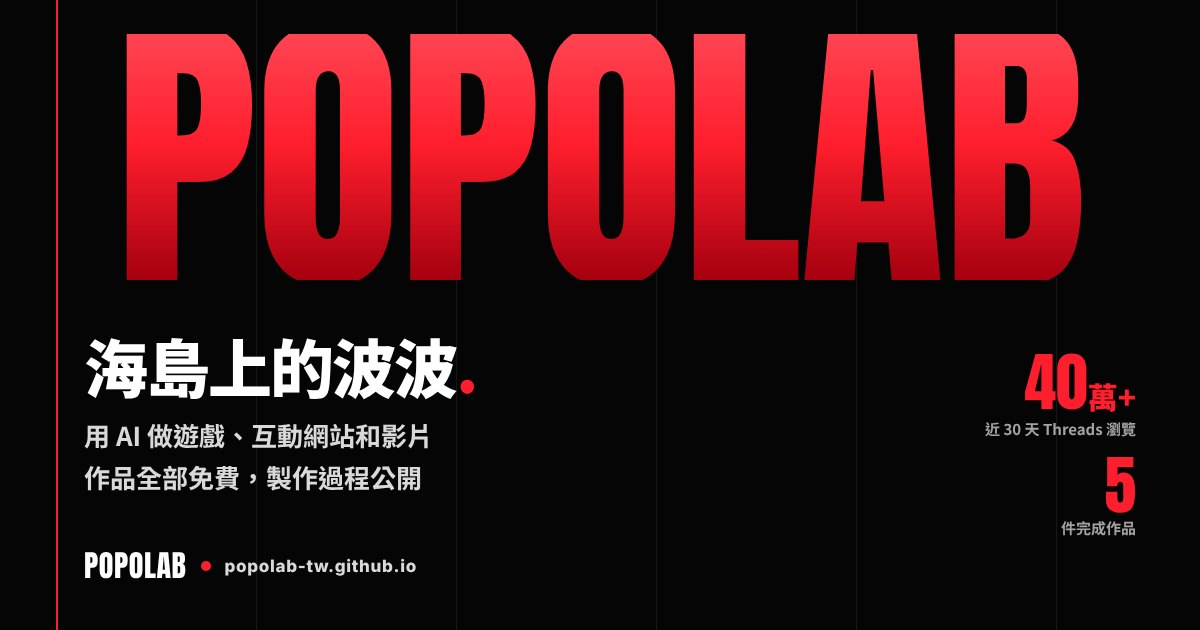
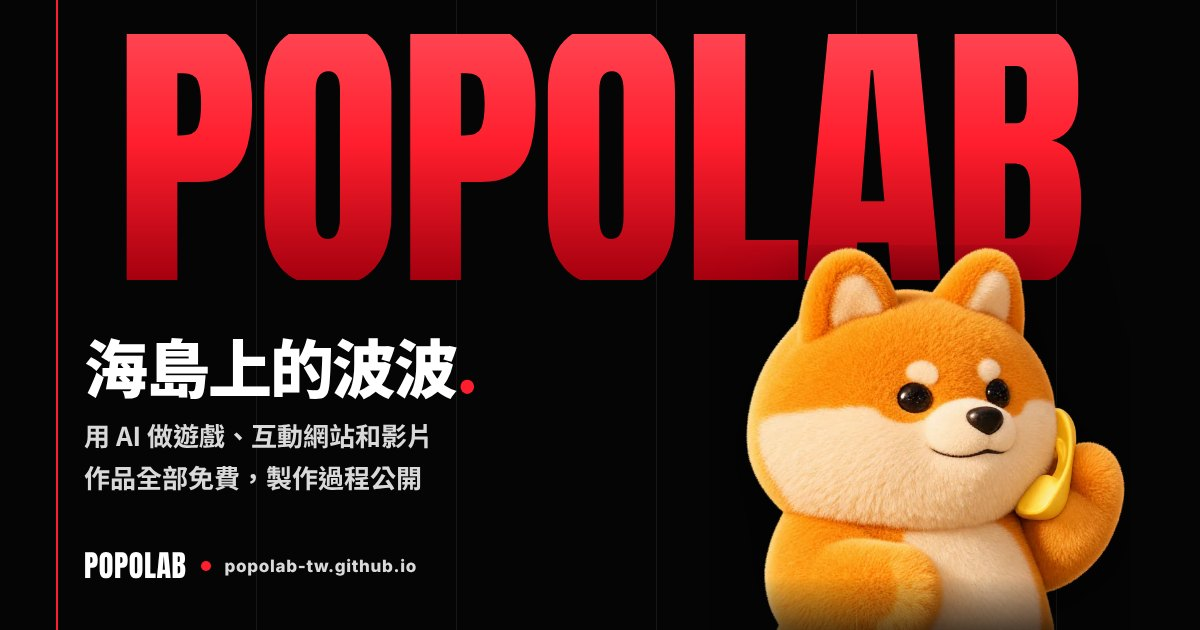
Hero 加入柴犬主視覺，網站圖示改用柴犬
Claude-Session: https://claude.ai/code/session_01XDwZgF5nHccd137tL3YrZp

Changed region(s): [[0.6167, 0.3921, 0.9558, 1.0]]

diff --git a/assets/css/site.css b/assets/css/site.css
@@ -103,7 +103,9 @@ ul,ol{margin:0;padding:0;list-style:none}
 .hero-role{margin-top:16px;font:900 clamp(15px,1.2vw,18px)/1.45 var(--zh);color:var(--red);letter-spacing:.02em}
 .hero-desc{margin-top:14px;font:500 15px/1.85 var(--zh);color:var(--ink-2);max-width:25em}
 .hero-cta{display:flex;flex-wrap:wrap;align-items:center;gap:14px 22px;margin-top:24px}
-.hero-mid{grid-column:2;grid-row:2;position:relative;z-index:2;align-self:start;margin-top:clamp(24px,3vw,48px)}
+.hero-visual{grid-column:2;grid-row:1/3;align-self:end;justify-self:center;position:relative;z-index:1;width:min(37vw,560px);margin-bottom:-2px;pointer-events:none}
+.hero-visual::before{content:"";position:absolute;left:8%;right:8%;top:18%;bottom:0;background:radial-gradient(closest-side,rgba(255,30,45,.38),rgba(255,30,45,0));filter:blur(30px);z-index:-1}
+.hero-visual img{width:100%;height:auto;-webkit-mask-image:linear-gradient(to bottom,#000 74%,transparent 99%);mask-image:linear-gradient(to bottom,#000 74%,transparent 99%);filter:drop-shadow(0 24px 40px rgba(0,0,0,.55))}
 .hero-right{grid-column:3;grid-row:2;position:relative;z-index:2;justify-self:end;width:min(100%,290px);margin-top:clamp(24px,3vw,48px)}
 .tagline{display:flex;gap:14px;align-items:center;font:700 14px/1.5 var(--zh);margin-bottom:22px}
 .ast{width:38px;height:38px;flex:none;border-radius:50%;border:1.5px solid var(--red);display:grid;place-items:center}
@@ -385,7 +387,9 @@ ul,ol{margin:0;padding:0;list-style:none}
   .hero{grid-template-columns:minmax(0,1fr) minmax(0,1fr)}
   .hero-left{grid-column:1;grid-row:2}
   .hero-right{grid-column:2;grid-row:2}
-  .hero-mid{grid-column:1/-1;grid-row:3;max-width:640px;margin:44px auto 0}
+  .hero-visual{grid-column:1/-1;grid-row:2;width:min(58vw,480px);margin-top:-13vw}
+  .hero-left{grid-row:3;margin-top:8px}
+  .hero-right{grid-row:3}
   .hero-strip{grid-row:4}
   .work-grid{grid-template-columns:repeat(2,minmax(0,1fr))}
   .craft{grid-template-columns:1fr 1fr}
@@ -402,13 +406,13 @@ ul,ol{margin:0;padding:0;list-style:none}
   .guides span:nth-child(3){border-right:1px solid var(--line)}
   .hero{grid-template-columns:minmax(0,1fr);padding-top:14px}
   .mega{font-size:27.8vw;margin-top:4px}
-  .hero-left{grid-column:1;grid-row:2;margin-top:-5vw}
+  .hero-visual{grid-column:1;grid-row:2;width:70vw;margin-top:-10vw}
+  .hero-left{grid-column:1;grid-row:3;margin-top:-10vw}
   .hero-name{white-space:normal}
-  .hero-right{grid-column:1;grid-row:3;justify-self:stretch;width:100%;margin-top:36px}
+  .hero-right{grid-column:1;grid-row:4;justify-self:stretch;width:100%;margin-top:36px}
   .stats{display:grid;grid-template-columns:repeat(3,minmax(0,1fr));gap:12px}
   .stat{grid-template-columns:1fr;gap:6px;padding:12px 0 0}
   .stat .n{font-size:clamp(30px,9vw,40px)}
-  .hero-mid{grid-row:4;margin:40px 0 0;max-width:none}
   .hero-strip{grid-row:5;flex-wrap:wrap}
   .hero-strip .mid{display:none}
   .tilt-card{transform:none}

diff --git a/index.html b/index.html
@@ -16,7 +16,7 @@
 <meta property="og:image:width" content="1200">
 <meta property="og:image:height" content="630">
 <meta name="twitter:card" content="summary_large_image">
-<link rel="icon" href="/favicon.svg" type="image/svg+xml">
+<link rel="icon" href="/favicon.png" type="image/png">
 <link rel="apple-touch-icon" href="/apple-touch-icon.png">
 <link rel="preconnect" href="https://fonts.googleapis.com">
 <link rel="preconnect" href="https://fonts.gstatic.com" crossorigin>
@@ -62,13 +62,8 @@
       </div>
     </div>
 
-    <div class="hero-mid" data-build>
-      <a class="tilt-card" href="/works/next-gen/#watch" aria-label="觀看最新作品 NEXT GEN MV">
-        <div class="tc-top"><span class="label"><b>NEW</b> / 最新作品</span><span class="label">MV ・ 3:38</span></div>
-        <img src="/assets/works/next-gen/mv-poster.webp" alt="NEXT GEN MV 畫面：發光的 3D 台灣地圖" width="1600" height="900" fetchpriority="high">
-        <span class="tc-title">NEXT GEN<br><span class="r">MV</span></span>
-        <span class="tc-play" aria-hidden="true"><svg viewBox="0 0 10 12"><path d="M0 0l10 6-10 6z"/></svg></span>
-      </a>
+    <div class="hero-visual" data-build>
+      <img src="/assets/img/shiba-1200.webp" srcset="/assets/img/shiba-640.webp 640w, /assets/img/shiba-1200.webp 1200w" sizes="(max-width:820px) 84vw, (max-width:1100px) 58vw, 40vw" alt="海島上的波波的柴犬吉祥物，正在講電話" width="1200" height="1188" fetchpriority="high">
     </div>
 
     <div class="hero-right">

diff --git a/404.html b/404.html
@@ -6,7 +6,7 @@
 <title>找不到這一頁｜海島上的波波</title>
 <meta name="robots" content="noindex">
 <meta name="theme-color" content="#050505">
-<link rel="icon" href="/favicon.svg" type="image/svg+xml">
+<link rel="icon" href="/favicon.png" type="image/png">
 <link rel="preconnect" href="https://fonts.googleapis.com">
 <link rel="preconnect" href="https://fonts.gstatic.com" crossorigin>
 <link rel="stylesheet" href="https://fonts.googleapis.com/css2?family=Anton&family=Inter:wght@700;800&family=Noto+Sans+TC:wght@500;700;900&display=swap">

diff --git a/works/feed/index.html b/works/feed/index.html
@@ -16,7 +16,7 @@
 <meta property="og:image:width" content="1200">
 <meta property="og:image:height" content="630">
 <meta name="twitter:card" content="summary_large_image">
-<link rel="icon" href="/favicon.svg" type="image/svg+xml">
+<link rel="icon" href="/favicon.png" type="image/png">
 <link rel="apple-touch-icon" href="/apple-touch-icon.png">
 <link rel="preconnect" href="https://fonts.googleapis.com">
 <link rel="preconnect" href="https://fonts.gstatic.com" crossorigin>

diff --git a/works/fertility-test/index.html b/works/fertility-test/index.html
@@ -16,7 +16,7 @@
 <meta property="og:image:width" content="1200">
 <meta property="og:image:height" content="630">
 <meta name="twitter:card" content="summary_large_image">
-<link rel="icon" href="/favicon.svg" type="image/svg+xml">
+<link rel="icon" href="/favicon.png" type="image/png">
 <link rel="apple-touch-icon" href="/apple-touch-icon.png">
 <link rel="preconnect" href="https://fonts.googleapis.com">
 <link rel="preconnect" href="https://fonts.gstatic.com" crossorigin>

diff --git a/works/flying-car/index.html b/works/flying-car/index.html
@@ -16,7 +16,7 @@
 <meta property="og:image:width" content="1200">
 <meta property="og:image:height" content="630">
 <meta name="twitter:card" content="summary_large_image">
-<link rel="icon" href="/favicon.svg" type="image/svg+xml">
+<link rel="icon" href="/favicon.png" type="image/png">
 <link rel="apple-touch-icon" href="/apple-touch-icon.png">
 <link rel="preconnect" href="https://fonts.googleapis.com">
 <link rel="preconnect" href="https://fonts.gstatic.com" crossorigin>

diff --git a/works/next-gen/index.html b/works/next-gen/index.html
@@ -16,7 +16,7 @@
 <meta property="og:image:width" content="1200">
 <meta property="og:image:height" content="630">
 <meta name="twitter:card" content="summary_large_image">
-<link rel="icon" href="/favicon.svg" type="image/svg+xml">
+<link rel="icon" href="/favicon.png" type="image/png">
 <link rel="apple-touch-icon" href="/apple-touch-icon.png">
 <link rel="preconnect" href="https://fonts.googleapis.com">
 <link rel="preconnect" href="https://fonts.gstatic.com" crossorigin>

diff --git a/works/the-arc/index.html b/works/the-arc/index.html
@@ -16,7 +16,7 @@
 <meta property="og:image:width" content="1200">
 <meta property="og:image:height" content="630">
 <meta name="twitter:card" content="summary_large_image">
-<link rel="icon" href="/favicon.svg" type="image/svg+xml">
+<link rel="icon" href="/favicon.png" type="image/png">
 <link rel="apple-touch-icon" href="/apple-touch-icon.png">
 <link rel="preconnect" href="https://fonts.googleapis.com">
 <link rel="preconnect" href="https://fonts.gstatic.com" crossorigin>
